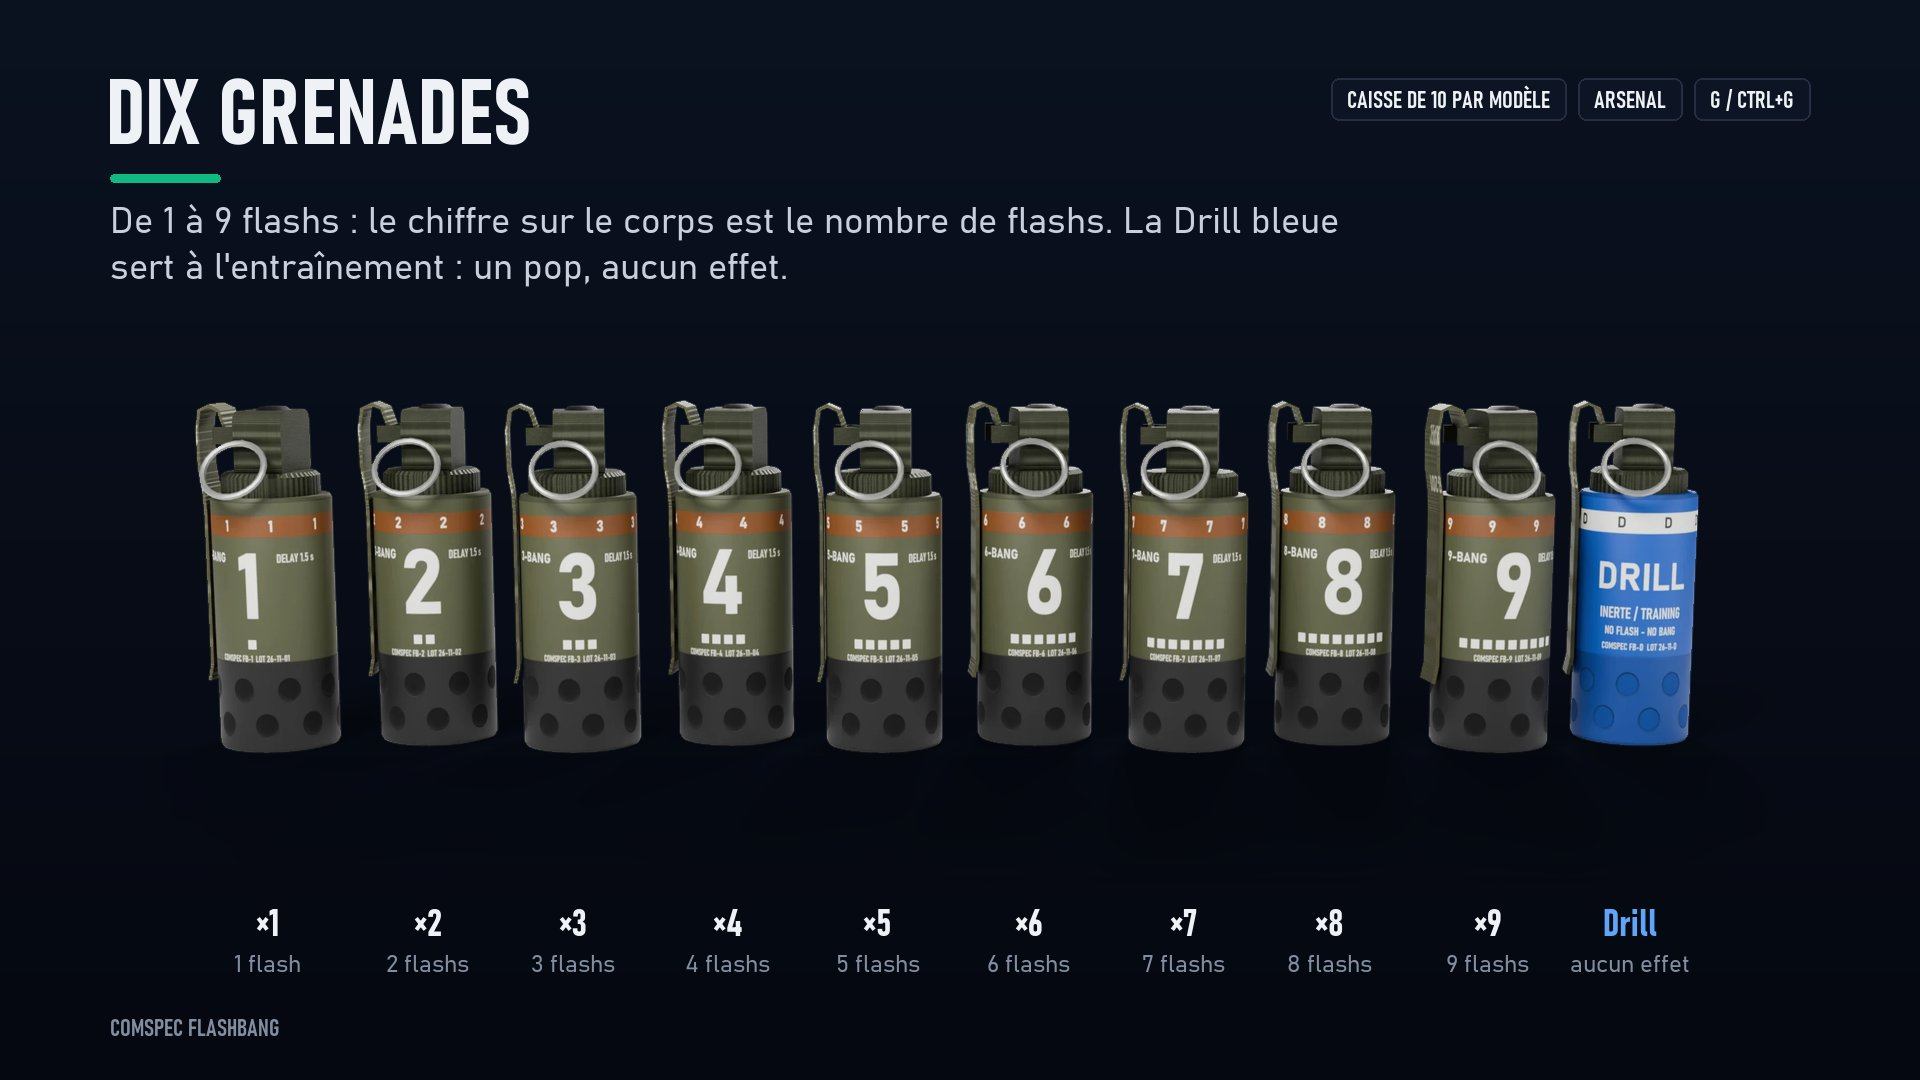
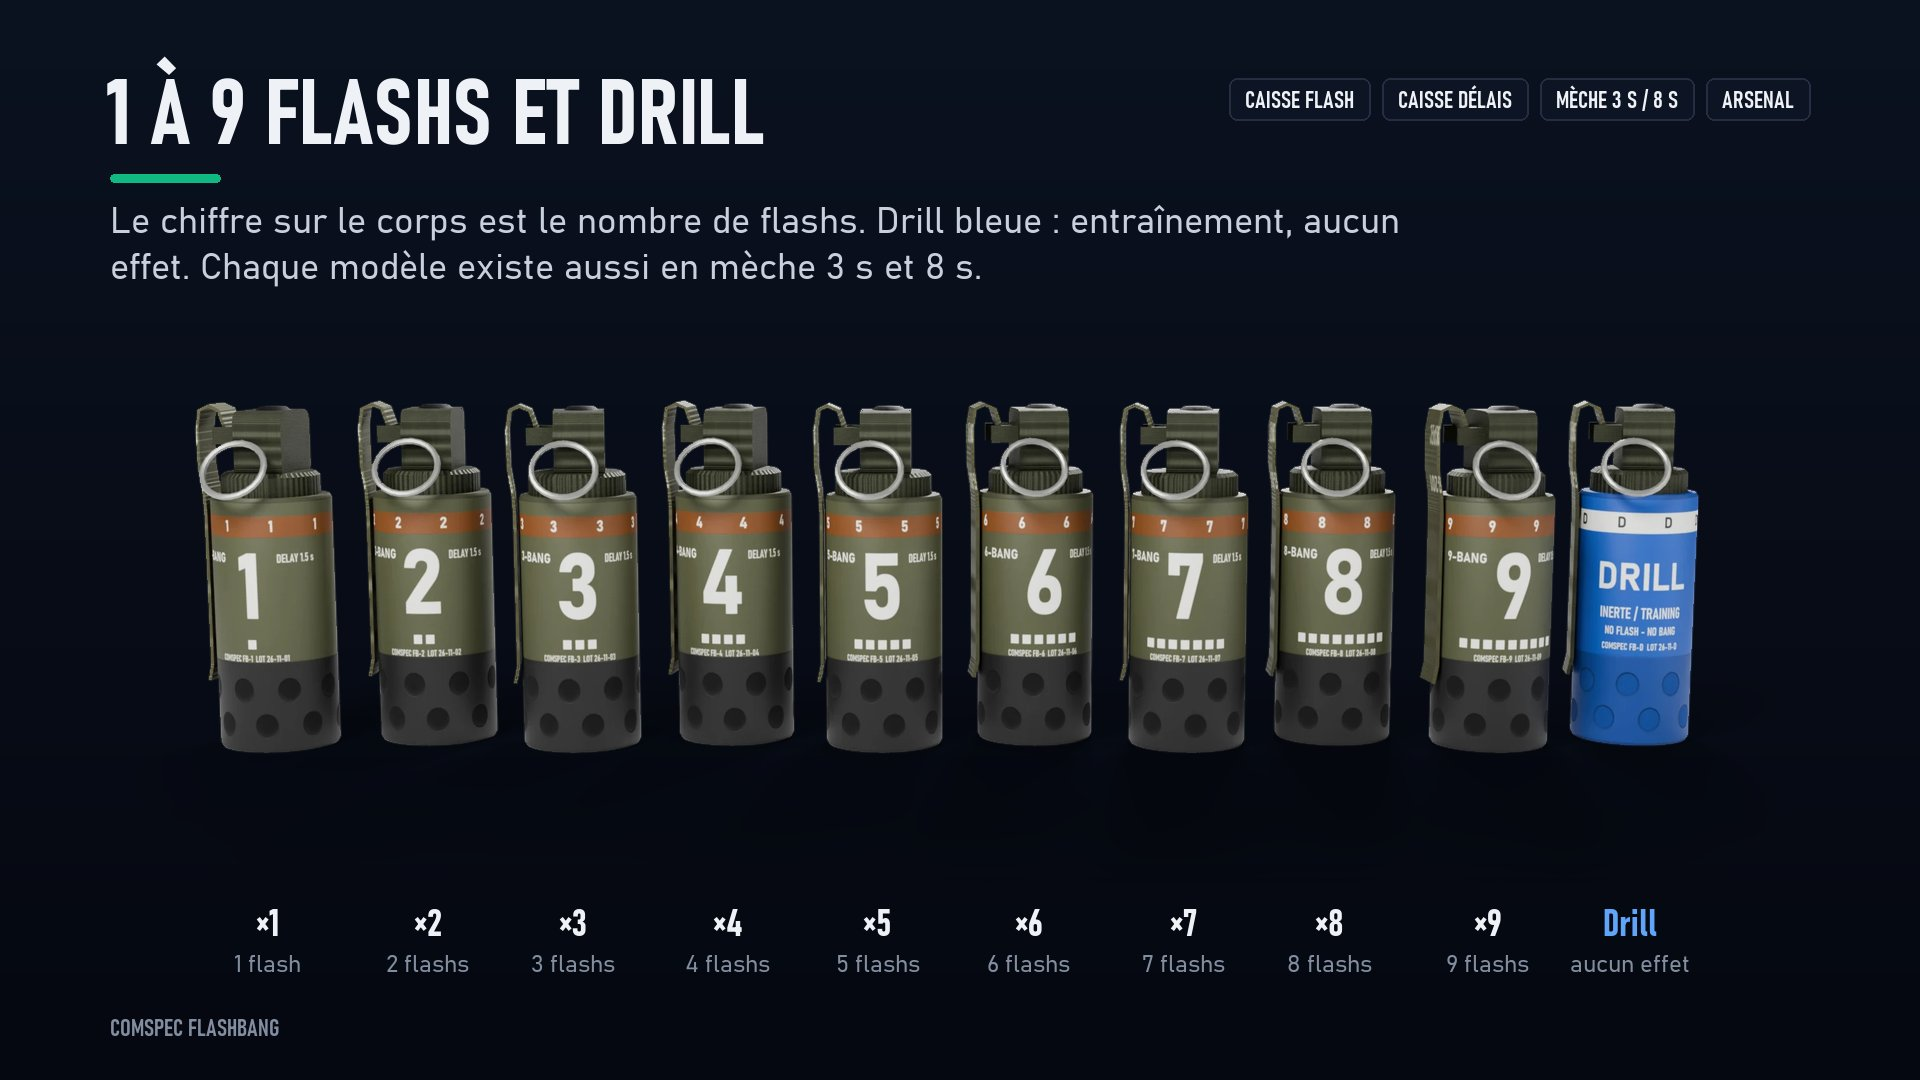
Flashbang 1.0.0 : page Workshop à jour (grenades à délai, Caisse délais, sons Drill, 32 réglages)
Description (7441 octets), note de version, annonce Discord et galerie 02/06.

Claude-Session: https://claude.ai/code/session_01UBGvpgFq5UBpaJY8LGtwcs

Changed region(s): [[0.0625, 0.1833, 0.7188, 0.275], [0.0625, 0.0611, 0.4062, 0.1528], [0.6562, 0.0611, 0.9375, 0.1222]]

diff --git a/mod/COMSPEC_Flashbang/tools/make_workshop_gallery.py b/mod/COMSPEC_Flashbang/tools/make_workshop_gallery.py
@@ -195,10 +195,12 @@ T = {
         "en": ("COMSPEC FLASHBANG", "Stun grenades for Arma 3: 1 to 9 flashes, realistic effects.",
                ["1 TO 9 FLASHES", "DRILL GRENADE", "ONLY CBA_A3 REQUIRED"])},
     "grenades": {
-        "fr": ("DIX GRENADES", "De 1 à 9 flashs : le chiffre sur le corps est le nombre de flashs. La Drill bleue "
-               "sert à l'entraînement : un pop, aucun effet.", ["CAISSE DE 10 PAR MODÈLE", "ARSENAL", "G / CTRL+G"]),
-        "en": ("TEN GRENADES", "From 1 to 9 flashes: the number on the body is the number of flashes. The blue Drill "
-               "is for training: a pop, no effect.", ["CRATE, 10 PER MODEL", "ARSENAL", "G / CTRL+G"])},
+        "fr": ("1 À 9 FLASHS ET DRILL", "Le chiffre sur le corps est le nombre de flashs. Drill bleue : entraînement, "
+               "aucun effet. Chaque modèle existe aussi en mèche 3 s et 8 s.",
+               ["CAISSE FLASH", "CAISSE DÉLAIS", "MÈCHE 3 S / 8 S", "ARSENAL"]),
+        "en": ("1 TO 9 FLASHES AND DRILL", "The number on the body is the number of flashes. The blue Drill is for "
+               "training: a pop, no effect. Every model also comes with a 3 s and 8 s fuse.",
+               ["FLASH CRATE", "DELAY CRATE", "3 S / 8 S FUSE", "ARSENAL"])},
     "timeline": {
         "fr": ("UN BANG PAR FLASH", "Une grenade à 5 flashs fait exactement 5 flashs et 5 bangs, environ toutes les demi-secondes, "
                "pareil chez tous les joueurs. Un seul sifflement, relancé à chaque flash."),
@@ -213,8 +215,8 @@ T = {
         "fr": ("DEDANS OU DEHORS", "Le mod regarde où la grenade éclate : murs, plafond, taille de la pièce."),
         "en": ("INDOORS OR OUTDOORS", "The mod checks where the grenade goes off: walls, ceiling, room size.")},
     "reglages": {
-        "fr": ("VOTRE DOSAGE", "28 réglages CBA, chacun avec un exemple. Trois préréglages pour commencer."),
-        "en": ("YOUR OWN DOSE", "28 CBA settings, each with an example. Three presets to start with.")},
+        "fr": ("VOTRE DOSAGE", "32 réglages CBA, chacun avec un exemple. Trois préréglages pour commencer."),
+        "en": ("YOUR OWN DOSE", "32 CBA settings, each with an example. Three presets to start with.")},
     "compat": {
         "fr": ("COMPATIBLE AVEC VOS MODS", "Seul CBA_A3 est obligatoire. Le reste est reconnu s'il est chargé."),
         "en": ("WORKS WITH YOUR MODS", "Only CBA_A3 is required. The rest is detected when loaded.")},

diff --git a/mod/COMSPEC_Flashbang/workshop/DISCORD_ANNONCE.md b/mod/COMSPEC_Flashbang/workshop/DISCORD_ANNONCE.md
@@ -15,16 +15,17 @@ Des grenades assourdissantes réalistes pour Arma 3. Mod indépendant : seul **C
 
 **Les grenades**
 • **Flash ×1 à Flash ×9** : de 1 à 9 flashs à la suite, exactement autant de bangs chez tout le monde.
-• **Drill** : grenade d'entraînement bleue, un pop, aucun effet.
+• **Drill** : grenade d'entraînement bleue, un pop, aucun effet ; 8 sons au choix.
+• **Versions à délai** : Flash ×N · 3 s / · 8 s et Drill · 3 s / 8 s, avec la « Caisse délais ».
 • Caisse, Arsenal, module Eden et modules Zeus (avec ZEN).
 
 **Ce que vous ressentez**
 • Écran blanc, puis une tache qui reste là où était le flash.
-• Sons et radio étouffés, puis un sifflement qui s'éteint.
+• Bang fort et réaliste, entendu de loin. Sons et radio étouffés, puis un sifflement qui s'éteint.
 • En pièce fermée, ça vous touche même de dos. Derrière un mur : bang sourd, pas de flash.
 • L'IA aussi est éblouie : elle vise mal et se couvre.
 
-**Réglages** : préréglages Réaliste, Arcade et Léger, et 28 réglages CBA.
+**Réglages** : préréglages Réaliste, Arcade et Léger, et 32 réglages CBA (dont volumes et portée du son).
 
 **Installation** : abonnez-vous à CBA_A3 et au mod, chargez-les sur le serveur et chez tous les joueurs, ajoutez la clé `comspec_flashbang.bikey` au dossier keys du serveur.
 
@@ -40,16 +41,17 @@ Realistic stun grenades for Arma 3. Standalone mod: only **CBA_A3** is required,
 
 **The grenades**
 • **Flash ×1 to Flash ×9**: 1 to 9 flashes in a row, exactly as many bangs for everyone.
-• **Drill**: blue training grenade, a pop, no effect.
+• **Drill**: blue training grenade, a pop, no effect; 8 sounds to choose from.
+• **Delayed versions**: Flash ×N · 3 s / · 8 s and Drill · 3 s / 8 s, with the "Delay crate".
 • Crate, Arsenal, Eden module and Zeus modules (with ZEN).
 
 **What you feel**
 • White screen, then a spot that stays where the flash was.
-• Muffled sound and radio, then a ringing that fades away.
+• Loud, realistic bang, heard from afar. Muffled sound and radio, then a ringing that fades away.
 • In a closed room it hits you even with your back turned. Behind a wall: dull bang, no flash.
 • AI gets dazzled too: it aims badly and takes cover.
 
-**Settings**: Realistic, Arcade and Light presets, plus 28 CBA settings.
+**Settings**: Realistic, Arcade and Light presets, plus 32 CBA settings (including volumes and sound range).
 
 **Installation**: subscribe to CBA_A3 and the mod, load them on the server and for every player, add the `comspec_flashbang.bikey` key to the server keys folder.
 
